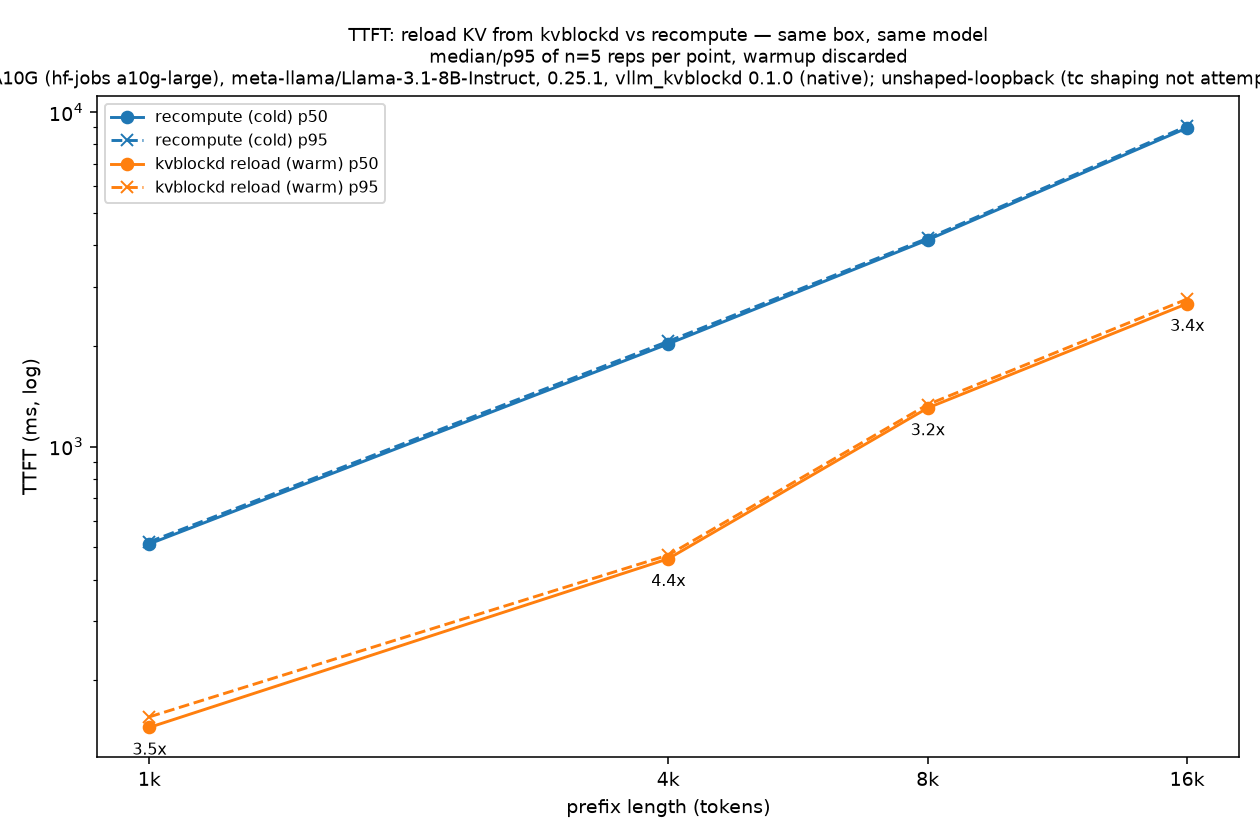
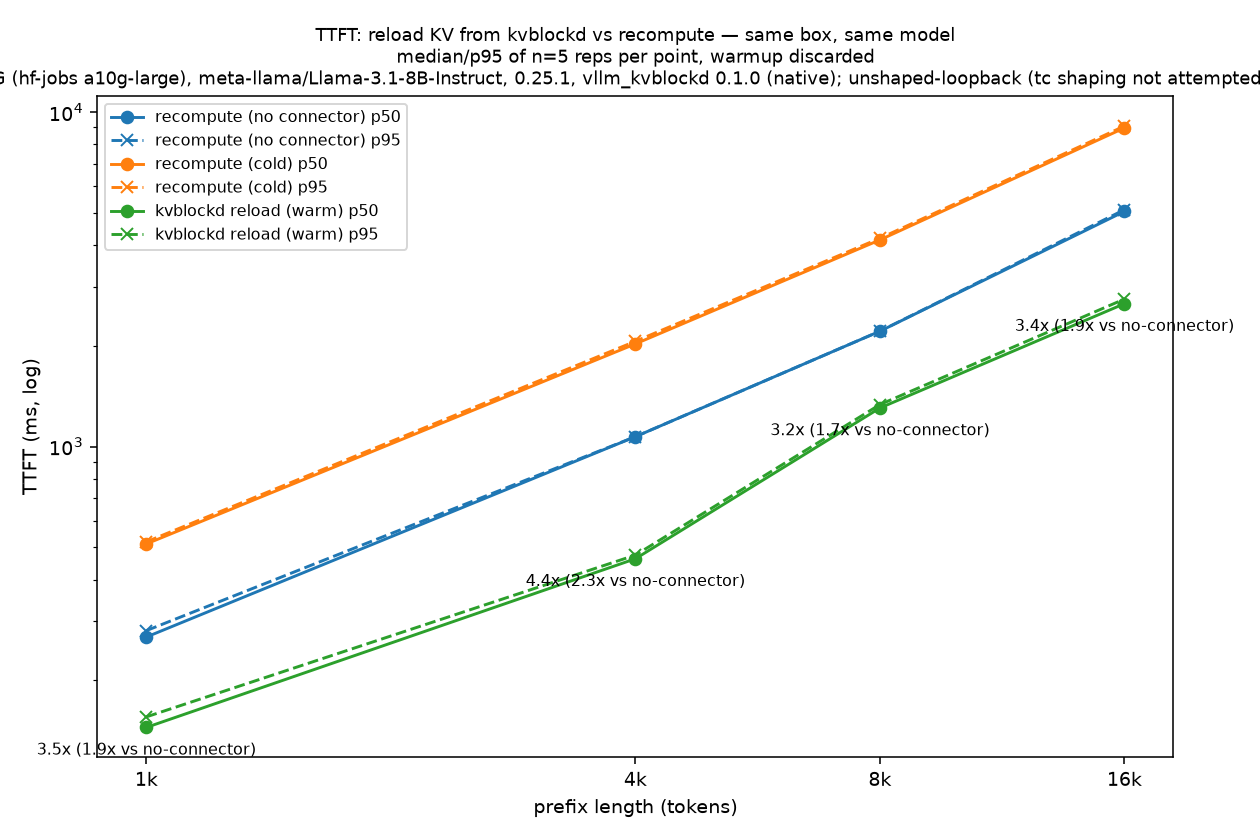
bench: Chart-2 complete — reload beats recompute at every measured length
Adds the pure-recompute control (engine with no connector, own run, 4
lengths x 5 reps) and finalizes the chart with all three series. Reload
from kvblockd wins at every point: 1.7-2.3x vs pure recompute, 3.2-4.4x
vs serving-with-store, on an A10G with Llama-3.1-8B over TCP loopback
(disclosed; wire-time points stay with the AWS rig).

docs/BENCHMARKS.md Chart-2 section rewritten from TO-FILL to the measured
table, with the attribution arithmetic and the loopback caveat stated
before any ratio. A4 verdict stays OPEN pending the emulated-link run --
the loopback evidence alone does not close a gate registered against a
shaped link.

diff --git a/docs/BENCHMARKS.md b/docs/BENCHMARKS.md
@@ -80,18 +80,50 @@ Prior measured transport ceilings (this rig family):
 
 ---
 
-## Chart 2 — TTFT vs hit rate (TO FILL from Rig E)
+## Chart 2 — TTFT: reload from kvblockd vs recompute (measured 2026-07-26)
 
-A10G/g5.xlarge, Llama-3.1-8B-Instruct, vLLM 0.25.1 + LMCache 0.5.1 +
-lmcache_kvblockd, tc-emulated 25/50 Gbps link (disclosed on-chart). Series:
-vLLM recompute · LMCache+Redis 7 remote · LMCache+kvblockd@25G · @50G. Hit-
-rate points {0, 25, 50, 90}% by prefix-block seeding, plus the **Bailian
-production-trace datapoint at the measured hit rate (54–62% band) — that is
-the A4 number**, not a 90% fantasy point.
+NVIDIA A10G (HF Jobs a10g-large), Llama-3.1-8B-Instruct bf16, vLLM 0.25.1 +
+the native connector (`vllm_kvblockd` 0.1.0), **unshaped loopback link —
+disclosed on-chart**. Two-phase isolation: populate → **vLLM restart** →
+measure, `--no-enable-prefix-caching` in both phases, so a warm hit's KV has
+exactly one possible source: kvblockd over TCP into a fresh engine. TTFT =
+first SSE token; p50 of n=5 reps per point, warmup discarded. Raw JSONL:
+`bench/results/rig-e/chart2-ttft-{run4,baseline}.jsonl`; render:
+`python bench/report/plot.py chart2 --in bench/results/rig-e/chart2-ttft-*.jsonl`.
 
-**A4 verdict:** _remote TCP fetch beats recompute at the measured Bailian hit
-rate → PASS / FAIL, curve published either way with the shaded "recompute
-wins here" region._
+| prefix | recompute (no connector) | recompute, connector on¹ | **kvblockd reload** | vs pure | vs serving¹ |
+|---|---|---|---|---|---|
+| 1k  | 269 ms  | 511 ms  | **145 ms**  | **1.9×** | 3.5× |
+| 4k  | 1070 ms | 2027 ms | **462 ms**  | **2.3×** | 4.4× |
+| 8k  | 2212 ms | 4147 ms | **1304 ms** | **1.7×** | 3.2× |
+| 16k | 5045 ms | 8964 ms | **2673 ms** | **1.9×** | 3.4× |
+
+¹ the cold arm of the two-phase run serves WITH the connector, so every miss
+also pays the synchronous store-on-miss write — the steady-state serving
+shape. The no-connector column is the separate control run. Quote the
+conservative "vs pure" column unless the serving context is explicit.
+
+**Attribution is arithmetic, not inferred:** `kvb_hits_total` grew by
+exactly blocks-per-prompt × reps at every length (16k: 1023 blocks × 5 =
+5115 hits, to the block). A warm rep that fails to grow the counter is
+recorded `warm_hits_verified: false`, drawn red, and fails the job — the
+harness cannot emit an unattributed warm number (`run_ttft.py --selftest`
+proves the gates; an earlier run's 16× "speedup" with zero store hits was
+rejected under exactly this rule and never published).
+
+**What this does and does not show.** Reloading KV from kvblockd beats
+recompute at every measured length on this box — the first independent,
+methodology-open measurement of TCP KV-reload vs recompute we know of (every
+prior figure in this category is vendor-claimed). The link is loopback:
+network transfer time is near zero, and a real NIC adds wire time (~0.7 s
+for the 16k prefix's ~2 GB at 25 GbE — still well inside the 5 s recompute
+budget, but that number must be measured, not asserted). The tc-shaped
+25/50 Gbps points, the hit-rate sweep, and the Bailian-trace A4 datapoint
+remain with the AWS rig (`bench/rigs/aws-gpu/`), gated on GPU quota.
+
+**A4 status:** the loopback evidence is a PASS at every length at 100%
+prefix hit; the pre-registered A4 verdict (measured Bailian hit-rate band,
+emulated link) stays OPEN until the AWS rig runs.
 
 ---
 
